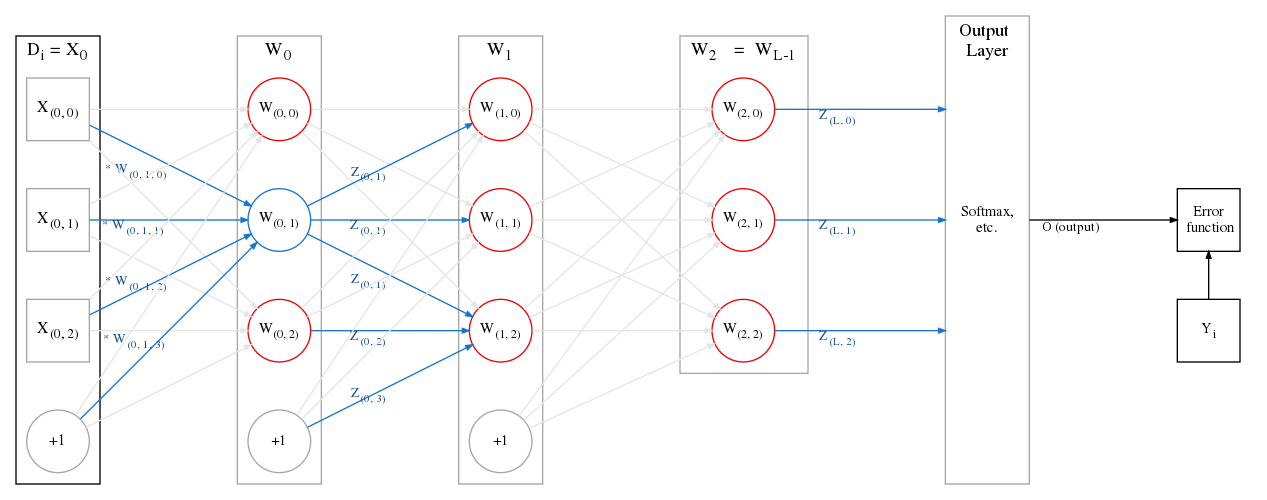
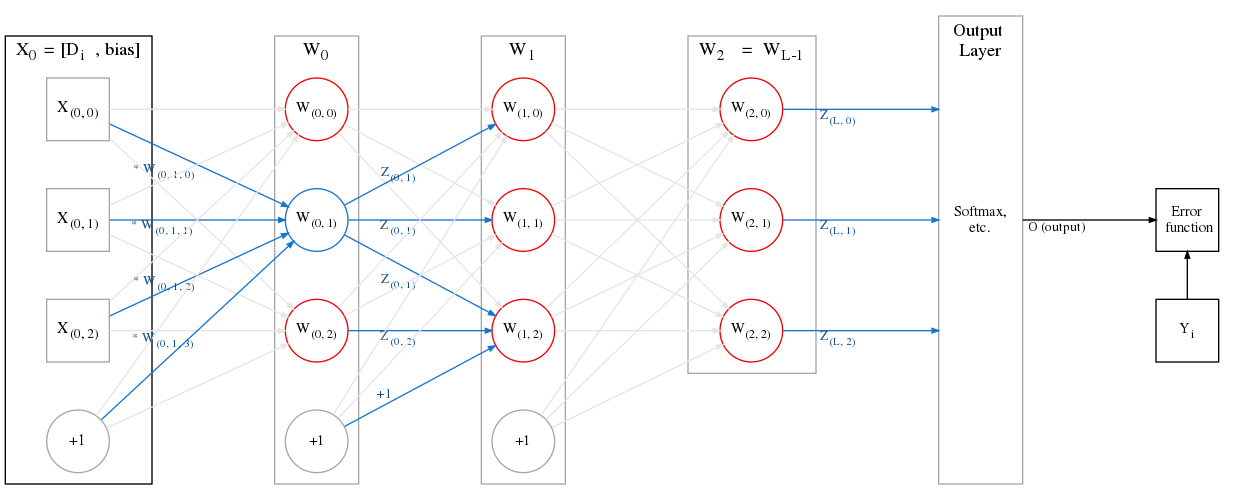
Small fix based on notation

diff --git a/neural-networks/basic-feedforward-neural-networks/notation-and-terminology-for-feedforward-networks.md b/neural-networks/basic-feedforward-neural-networks/notation-and-terminology-for-feedforward-networks.md
@@ -61,7 +61,7 @@ For that reason, I use the following terminology and notation:
 Take a look at the network in Fig 1. We can see that: 
 - L = 3 i.e. there are three (hidden) layers.
 - The input to the network, $$D_i$$, is a vector of with 3 features. When combined with a bias unit, it becomes $$X_0$$, as it is fed into each neuron of the first hidden layer $$W_0$$.
-    - Each neuron owns a vector of weights which it uses to produce the output. In the figure above, we look at the second neuron of $$W_0$$, i.e. $$W_{(0, 1)}$$, with weight vector $$[ \begin{matrix} W_{(0, 1, 0)} & W_{(0, 1, 1)} & W_{(0, 1, 2)} & W_{(0, 1, 3)} \end{matrix}]$$. The neuron "owns" these weights; it can be considered part of its definition.
+    - Each neuron owns a vector of weights which it uses to produce the output. In the figure above, we look at the second neuron of $$W_0$$, i.e. $$W_{(0, 1)}$$, with weight vector $$[ \begin{matrix} W_{(0, 1, 0)} & W_{(0, 1, 1)} & W_{(0, 1, 2)} & W_{(0, 1, 3)} \end{matrix}]$$. The neuron "owns" these weights; they can be considered part of its definition.
     - This weight vector is multiplied by the corresponding input vector to the layer. Here, it is $$X_0 = [ \begin{matrix} X_{(0,0)} & X_{(0,1)} & X_{(0,2)} & X_{(0,3)} \end{matrix}]$$.
     - For a neuron $$W_{(0,1)}$$, the affine function computes $$A_{(0,1)} = X_0 \cdot W_{(0,1)}$$ (the bias is already included). This is a scalar for a particular neuron.
     - Each neuron in the above figure outputs a single, scalar value. For our selected neuron, it is $$Z_{(0,1)} = activation(A_{(0,1)})$$, where the activation function might be sigmoid, ReLU, tanh, etc.
